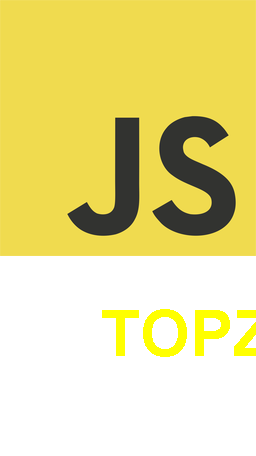
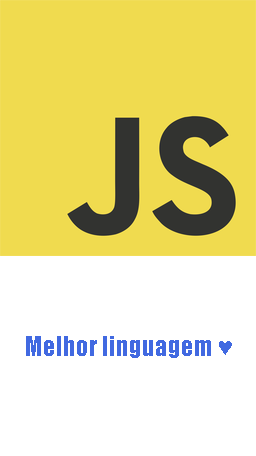
adicionando imagem de exemplo

Changed region(s): [[0.0938, 0.6754, 1.0, 0.7982]]

diff --git a/src/App.java b/src/App.java
@@ -29,7 +29,7 @@ public class App {
 
         System.out.println("Linguagens de programação");
 
-        for (int i = 0; i < 3; i++) {
+        for (int i = 0; i < conteudos.size(); i++) {
 
             Conteudo conteudo = conteudos.get(i);
 
